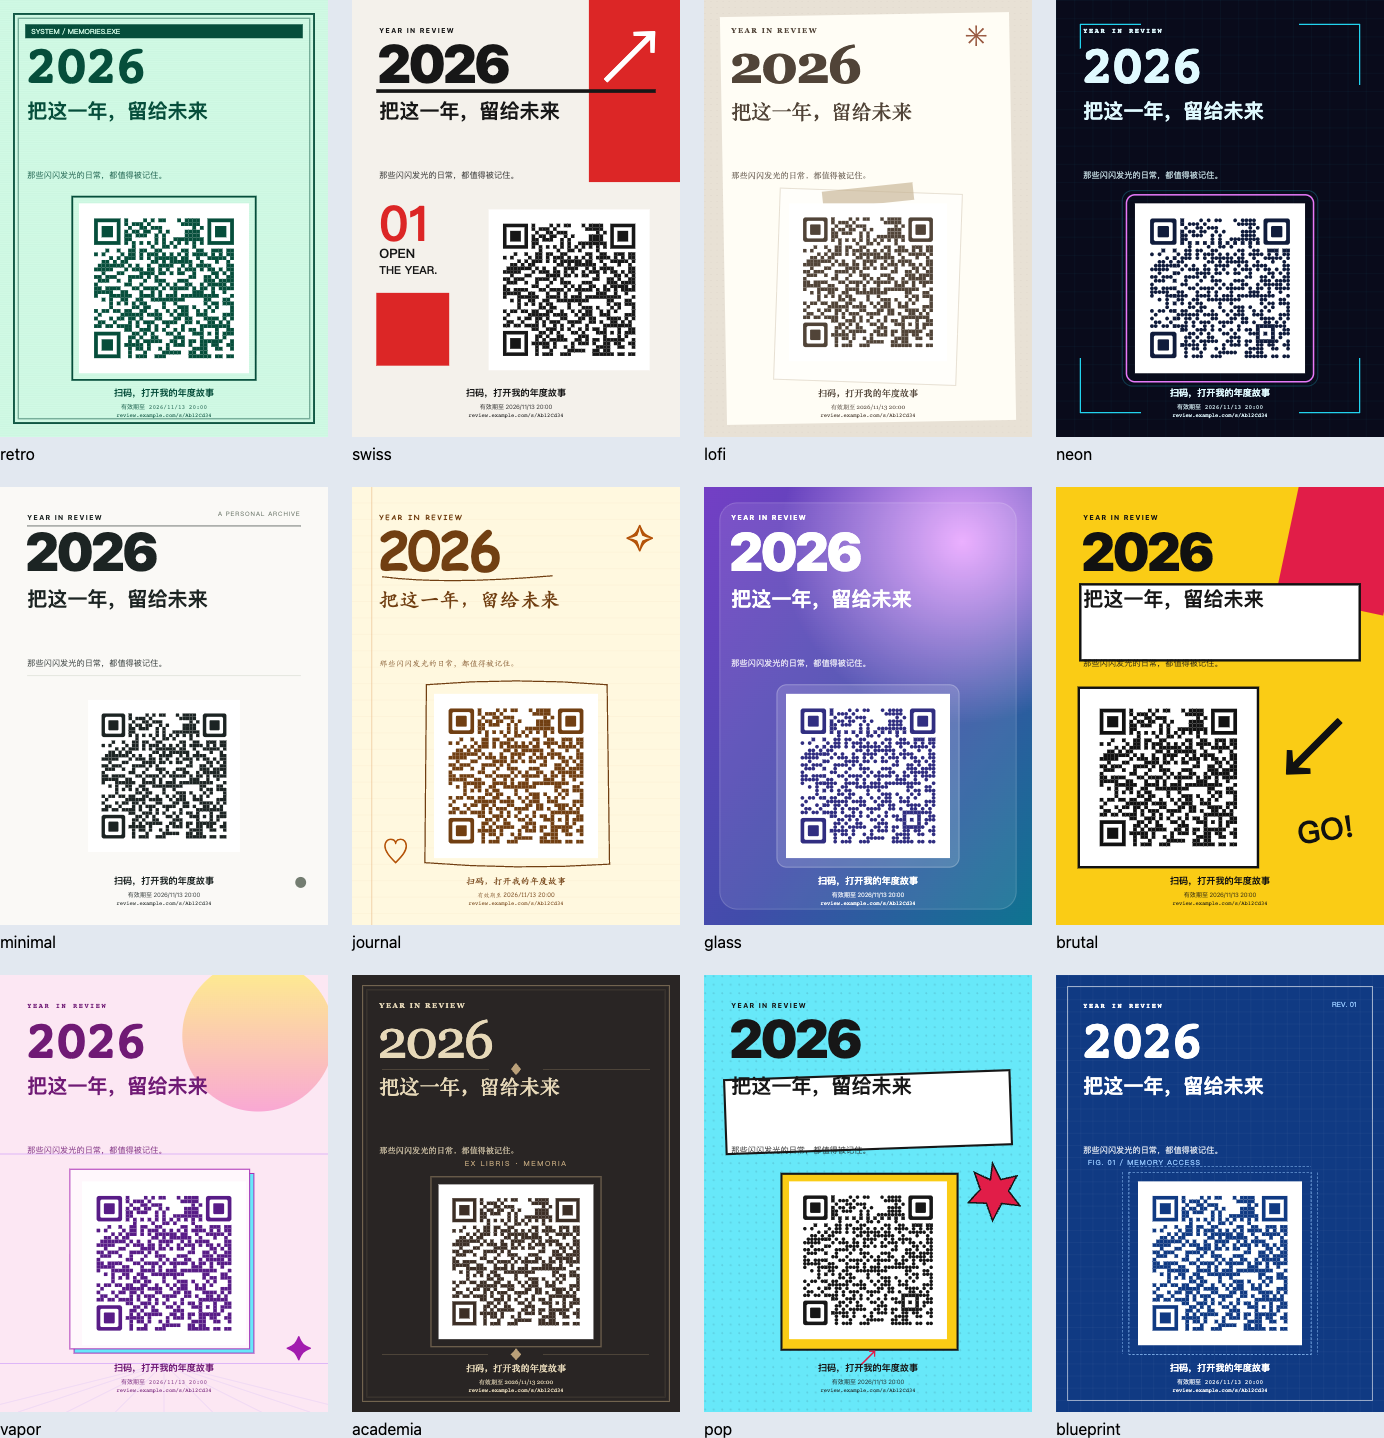
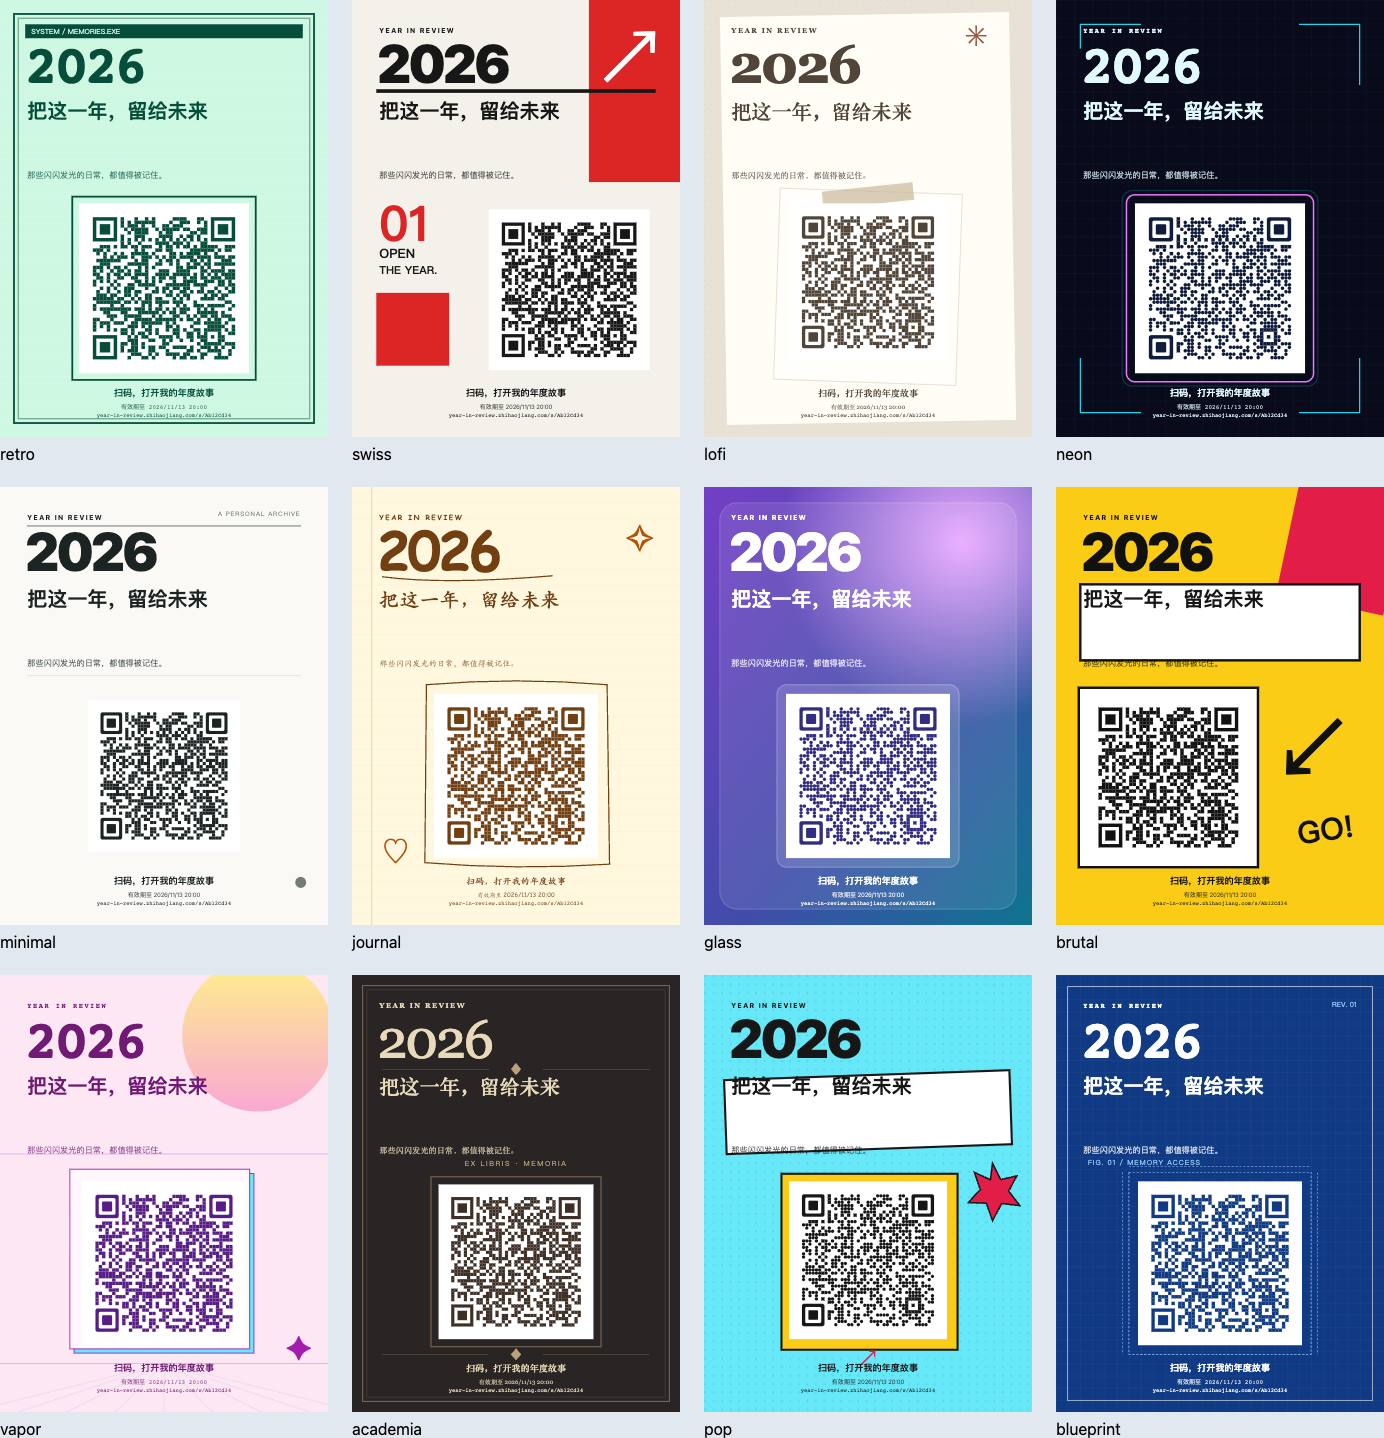
fix: 所有主题的二维码和宣传卡上的地址统一使用：
https://year-in-review.zhihaojiang.com/s/作品短码

diff --git a/src/sharePoster.js b/src/sharePoster.js
@@ -1,4 +1,5 @@
 import QRCode from 'qrcode';
+import { publicWorkUrl } from '../shared/short-links.js';
 
 export const POSTER_WIDTH = 1080;
 export const POSTER_HEIGHT = 1440;
@@ -80,7 +81,8 @@ export function createQrSvg(url, { size = 540, ink = '#111111', shape = 'square'
 
 export function createSharePoster({ url, theme = 'retro', title, subtitle = '', year, expiresAt, language = 'zh' }) {
   const p = POSTER_THEMES[theme] || POSTER_THEMES.retro;
-  const qr = createQrSvg(url, { ink: p.qr, shape: p.shape, size: p.size });
+  const publicUrl = publicWorkUrl(url);
+  const qr = createQrSvg(publicUrl, { ink: p.qr, shape: p.shape, size: p.size });
   const labels = {
     zh: ['我的年度故事', '扫码，打开我的年度故事', '有效期至'],
     en: ['My year in stories', 'SCAN TO OPEN MY YEAR', 'Available until'],
@@ -90,7 +92,7 @@ export function createSharePoster({ url, theme = 'retro', title, subtitle = '', 
   const yearText = Array.from(String(year)).slice(0, 10).join('');
   const yearSize = Math.min(176, 810 / Math.max(4, yearText.length) / .65);
   const date = new Intl.DateTimeFormat(language, { year: 'numeric', month: '2-digit', day: '2-digit', hour: '2-digit', minute: '2-digit' }).format(new Date(expiresAt));
-  const displayUrl = new URL(url).host + new URL(url).pathname;
+  const displayUrl = publicUrl.replace(/^https:\/\//, '');
   const mono = 'ui-monospace,Consolas,monospace';
   const family = p.font === 'serif' ? 'Georgia,Songti SC,serif' : p.font === 'monospace' ? mono : p.font === 'cursive' ? 'Comic Sans MS,Kaiti SC,KaiTi,cursive' : 'system-ui,-apple-system,Segoe UI,sans-serif';
   const svg = `<svg xmlns="http://www.w3.org/2000/svg" width="1080" height="1440" viewBox="0 0 1080 1440" role="img" aria-label="${escape(title || labels[0])}">

diff --git a/src/page-order.css b/src/page-order.css
@@ -10,7 +10,7 @@
 .page-order-row .page-order-handle:not(:disabled):hover { color:#4f46e5; }
 .page-order-row .page-order-handle:active { cursor:grabbing; color:#4f46e5; }
 .page-order-row .page-order-select { flex:1; min-width:0; width:auto; justify-content:flex-start; gap:4px; padding:8px; text-align:left; font-size:14px; line-height:1.45; font-weight:600; color:#1e293b; overflow-wrap:anywhere; }
-.page-order-number { font-variant-numeric:tabular-nums; }
+.page-order-number { flex-shrink:0; white-space:nowrap; font-variant-numeric:tabular-nums; }
 .page-order-actions { display:flex; flex:none; }
 .page-order-row .page-order-delete { color:#94a3b8; }
 .page-order-row .page-order-delete:not(:disabled):hover { color:#e11d48; background:#fff1f2; }

diff --git a/shared/short-links.js b/shared/short-links.js
@@ -1,5 +1,12 @@
 export const SHORT_CODE_PATTERN = /^[A-Za-z0-9]{8}$/;
 export const SHORT_PATH_PATTERN = /^\/s\/[A-Za-z0-9]{8}$/;
+export const PUBLIC_SITE_ORIGIN = 'https://year-in-review.zhihaojiang.com';
+
+export function publicWorkUrl(value) {
+  const { pathname } = new URL(value, PUBLIC_SITE_ORIGIN);
+  if (!SHORT_PATH_PATTERN.test(pathname)) throw new Error('Invalid work path');
+  return PUBLIC_SITE_ORIGIN + pathname;
+}
 const alphabet = '0123456789ABCDEFGHIJKLMNOPQRSTUVWXYZabcdefghijklmnopqrstuvwxyz';
 
 export function createShortCode() {

diff --git a/README.md b/README.md
@@ -204,6 +204,8 @@ data/
 
 点击「保存宣传卡 PNG」下载 1080 × 1440 高清图片，手机也可长按图片保存；支持系统文件分享的浏览器会显示「分享卡片」。宣传卡与二维码在浏览器本地生成，不向第三方二维码服务提交链接。二维码组件仅在发布成功后按需加载，不增加编辑器首屏的二维码依赖。扫码打开的仍是同一个 7 天临时作品，图片中会标明过期时间。
 
+二维码及卡片上印出的链接统一使用正式域名 `https://year-in-review.zhihaojiang.com/s/短码`。即使从 localhost、局域网 IP 或预览域名发布，也不会把这些地址写入二维码。正式域名需部署到存有该作品的服务，扫码才能打开对应作品；页面上的访问、复制链接仍使用当前站点地址，方便本地查看。
+
 `npm run test:sharing` 使用与手机检查相同的可选 Playwright 环境，验证 12 套模板在原始尺寸和 360px 缩小后能解码为正确链接，并检查复制及实际下载 PNG 的流程。解码器 jsQR 仅为开发测试依赖。
 
 ### 临时部署到当前 Cloudflare 域名（Workers KV 免费方案）
